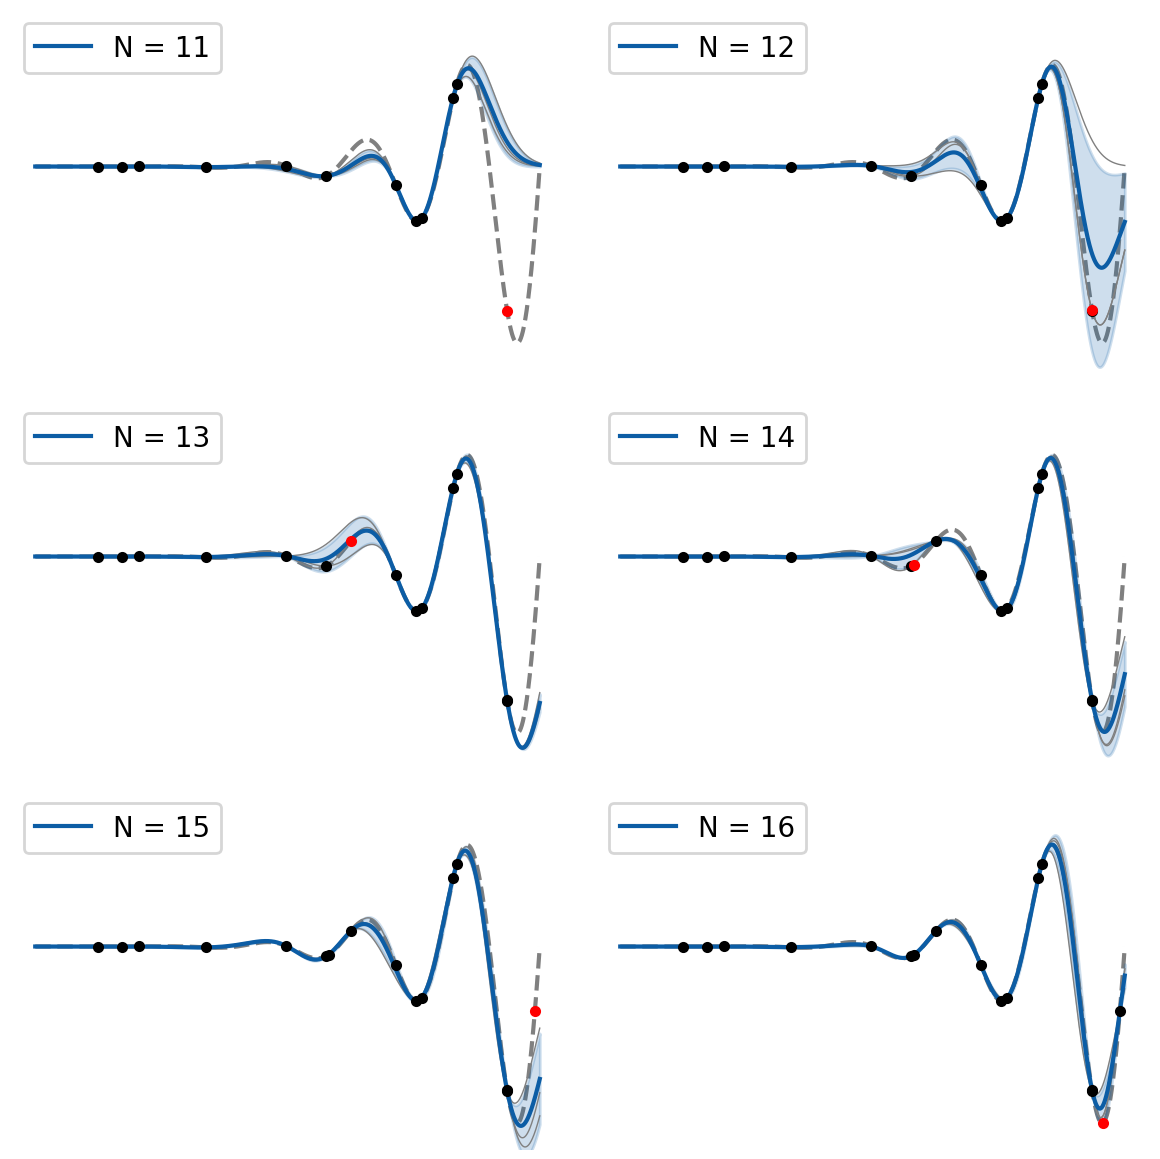
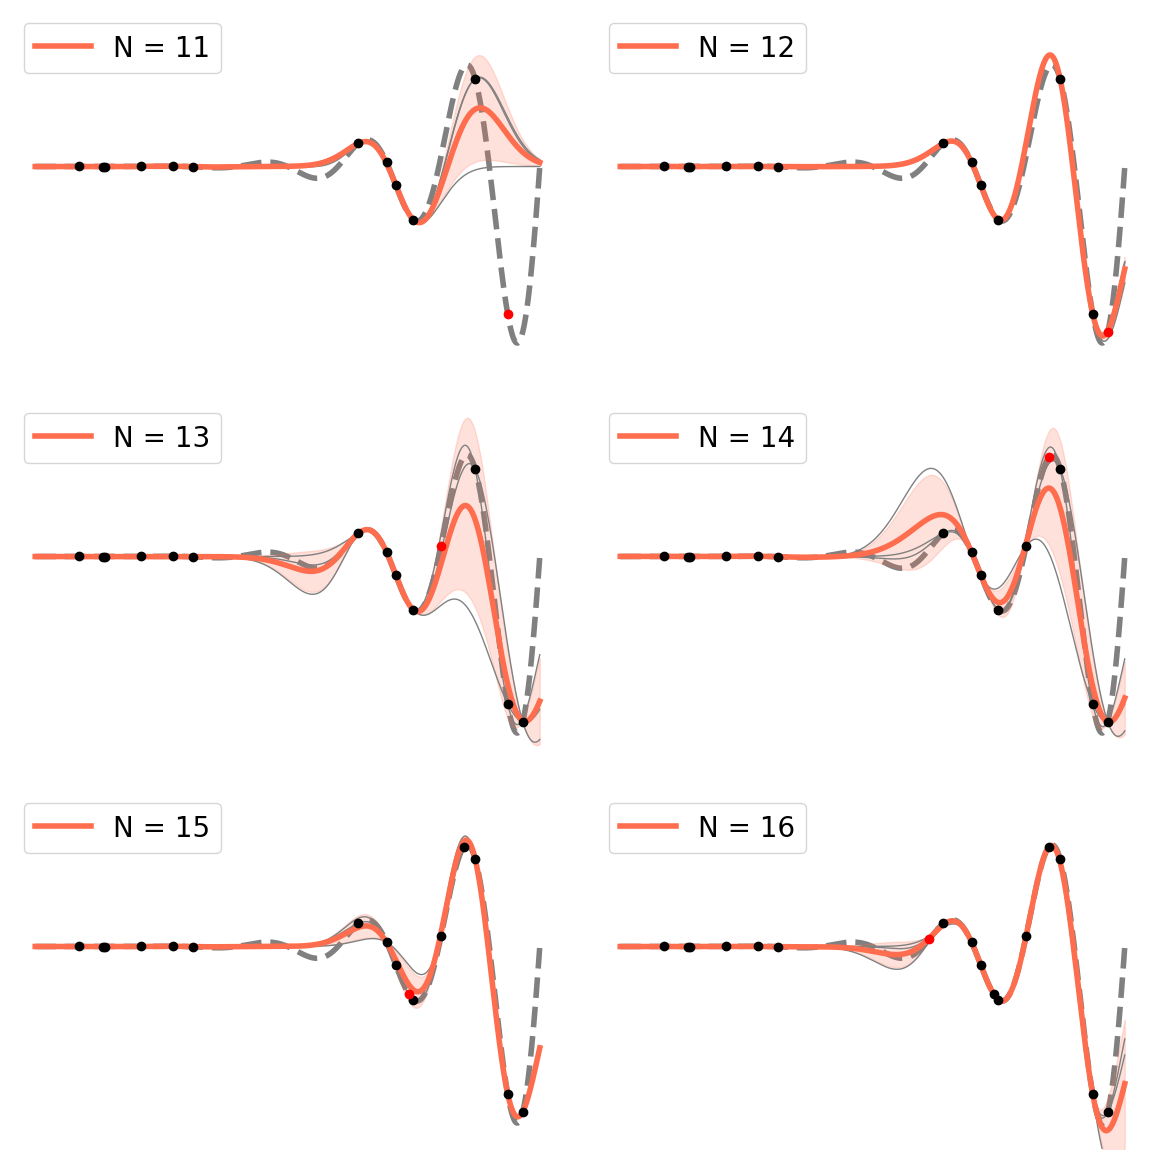
update

diff --git a/active_learning/benchmark/functions.py b/active_learning/benchmark/functions.py
@@ -11,6 +11,7 @@
 
 import typing
 
+import matplotlib.pyplot as plt
 import numpy as np
 
 
@@ -176,6 +177,10 @@ def plot_benchamrk_functions():
     import seaborn as sns
     import matplotlib
 
+    from matplotlib.colors import LinearSegmentedColormap, ListedColormap
+    cmap = sns.color_palette("RdBu_r", as_cmap=True)
+    cmap = LinearSegmentedColormap.from_list("mycmap", ['C0', "C7", "C6", "white", "C4", "C5", 'C1'])
+
     matplotlib.rcParams.update({'font.size': 6})
     fig, ax = plot.subplots(
         figsize=(10, 4.2),
@@ -189,20 +194,23 @@ def plot_benchamrk_functions():
             x__, y__ = np.meshgrid(xxx, yyy)
             x__ = pd.DataFrame(dict(x0=x__.ravel(), x1=y__.ravel()))
             z = budget_parameters[fun]["fun"](x__.values)
+            z = z - np.median(z)
 
             im = ax[i % 2, i // 2].pcolormesh(xxx, yyy, z.reshape(len(xxx), len(yyy)),
-                                              cmap=sns.color_palette("RdBu_r", as_cmap=True))
+                                              cmap=cmap)
             ax_ = ax[i % 2, i // 2]
             ax_.set_xticklabels([])
             ax_.set_yticklabels([])
-            ax_.annotate(fun, xy=(1, 0.8), xycoords='axes fraction',
+            ax_.annotate(fun, xy=(1, 0.9), xycoords='axes fraction',
                          xytext=(1, 20), textcoords='offset pixels',
                          horizontalalignment='right',
                          verticalalignment='bottom',
                          bbox=dict(boxstyle="round", fc="white", lw=0.4))
 
+    # plt.tight_layout()
     fig.subplots_adjust(right=0.9)
     cbar_ax = fig.add_axes([0.91, 0.11, 0.01, 0.77])
     fig.colorbar(im, cax=cbar_ax, ticks=[-2, -0.32, 1.5])
-    cbar_ax.set_yticklabels(['low \nvalues', '0', 'high \nvalues'])  #
+    cbar_ax.set_yticklabels(['low \nvalues', 'medium \nvalue', 'high \nvalues'])  #
 
+    plt.savefig(".public/benchmark_functions")

diff --git a/active_learning/benchmark/naive_2d.py b/active_learning/benchmark/naive_2d.py
@@ -20,10 +20,10 @@ from active_learning.benchmark import utils
 from active_learning.components import latin_square
 from active_learning.components.active_criterion import VarianceEnsembleMethod
 from active_learning.components.query_strategies import ServiceQueryVariancePDF, ServiceUniform
-try:
-    plt.style.use("./.matplotlibrc")
-except (ValueError, OSError):
-    pass
+# try:
+#     plt.style.use("./.matplotlibrc")
+# except (ValueError, OSError):
+#     pass
 functions_ = list(functions.bounds.keys())
 
 name = "grammacy_lee_2009_rand"
@@ -52,6 +52,9 @@ def add_to_benchmark(data: pd.DataFrame, path="benchmark/results.csv"):
 
 
 def plot_all_benchmark_function():
+    from matplotlib.colors import LinearSegmentedColormap, ListedColormap
+    cmap = LinearSegmentedColormap.from_list("mycmap", ['C2', "C0", "white", "C4",  'C1'])
+
     from active_learning.benchmark.functions import budget_parameters
     functions__ = list(budget_parameters.keys())
     fig, ax = plot.subplots(ncols=len(functions__) // 2 + len(functions__) % 2,
@@ -64,13 +67,13 @@ def plot_all_benchmark_function():
             xx, yy, x, z = utils.eval_surf_2d(f, bound, num=200)
 
             ax_.pcolormesh(xx, yy, z.reshape(len(xx), len(yy)),
-                           cmap="RdBu")
+                           cmap=cmap)
 
             ax_.axes.yaxis.set_ticklabels([])
             ax_.axes.xaxis.set_ticklabels([])
     if len(functions__) % 2 == 1:
         ax[(i + 1) % 2, (i + 1) // 2].axes.remove()
-    plot.savefig("benchmark/functions.png")
+    plot.savefig(".public/functions.png")
 
 
 def clear_benchmark_data(path="benchmark/results.csv", function=name):
@@ -136,4 +139,4 @@ def get_benchmark():
 
 
 if __name__ == '__main__':
-    pass
+    get_benchmark()

diff --git a/active_learning/benchmark/naive_1d.py b/active_learning/benchmark/naive_1d.py
@@ -26,10 +26,6 @@ from active_learning.components.active_criterion import GaussianProcessVariance
 from active_learning.components.active_criterion import VarianceCriterion
 from active_learning.components.query_strategies import ServiceQueryVariancePDF, ServiceUniform
 
-try:
-    plt.style.use("./.matplotlibrc")
-except (ValueError, OSError):
-    pass
 bounds = [[0, 1]]
 
 
